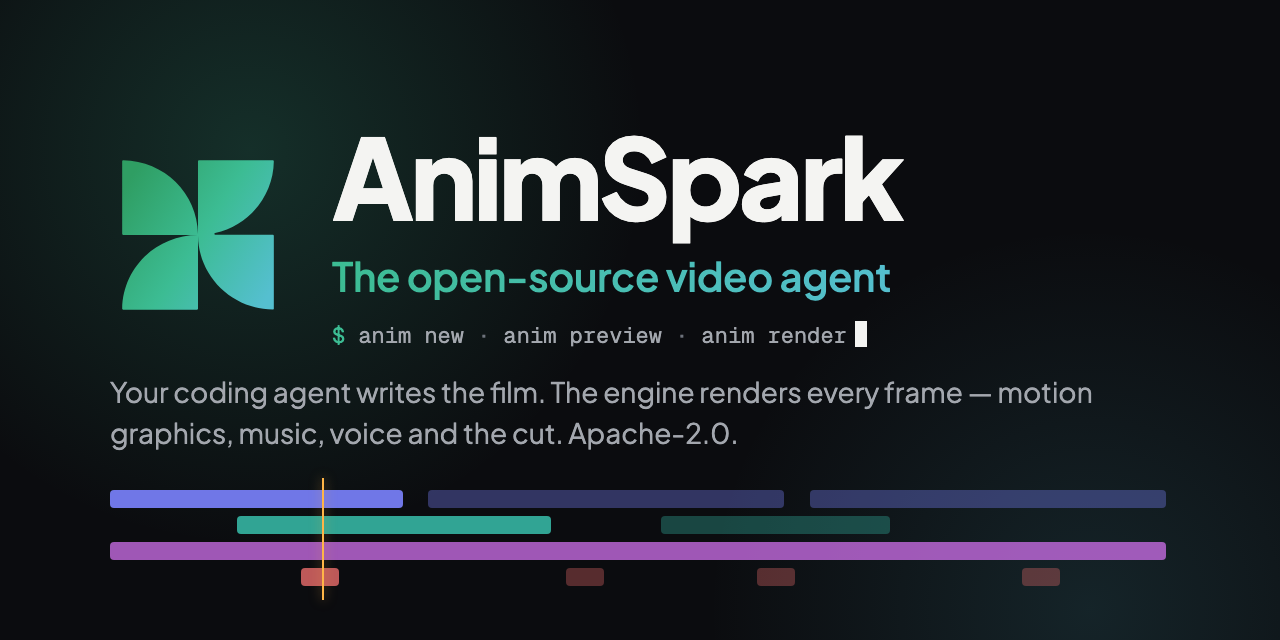
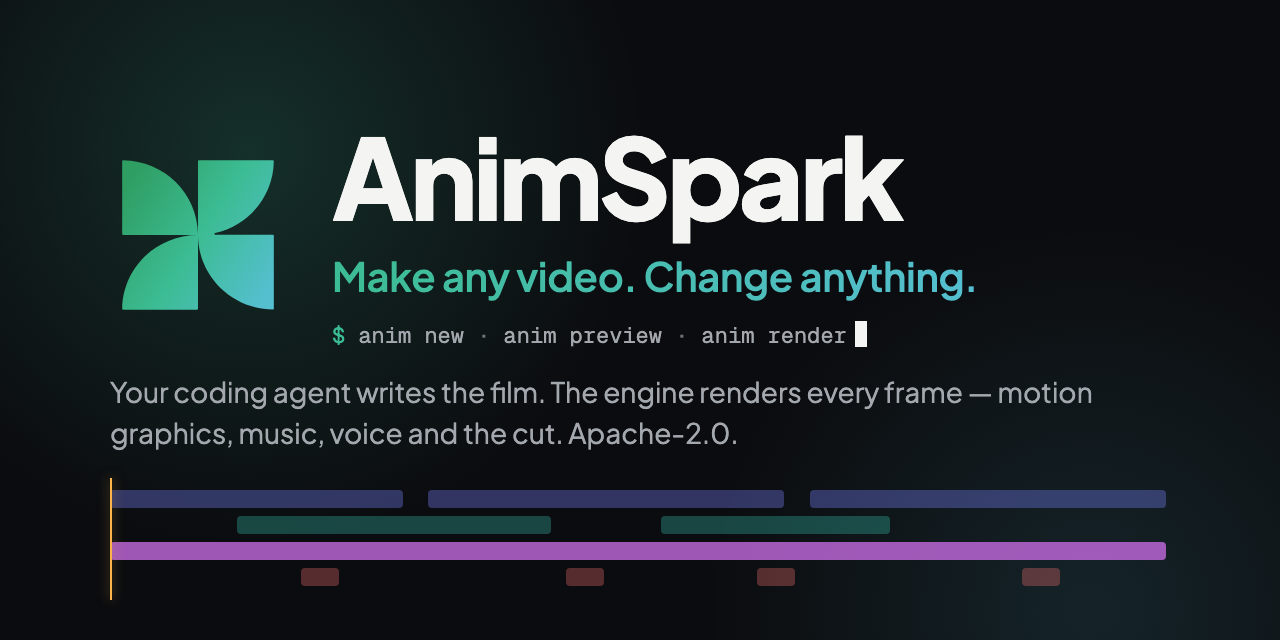
README and brand images: Make any video. Change anything.
Staging: 1e77ce221aeee18ffebed8f988579e85277418bd

Changed region(s): [[0.25, 0.4062, 0.75, 0.4688], [0.0625, 0.75, 0.4375, 0.8438], [0.2188, 0.875, 0.2812, 0.9375]]

diff --git a/README.md b/README.md
@@ -1,5 +1,5 @@
 <p align="center">
-  <a href="https://animspark.com"><img src="docs/assets/hero.webp" alt="AnimSpark — the open-source video agent" width="100%"></a>
+  <a href="https://animspark.com"><img src="docs/assets/hero.webp" alt="AnimSpark — make any video, change anything" width="100%"></a>
 </p>
 
 <p align="center">
@@ -10,8 +10,9 @@
 </p>
 
 <p align="center">
-  <b>The open-source video agent.</b> A film format, a frame-exact renderer, a music engine and the<br>
-  skills that let Claude Code, Codex or Cursor make motion graphics, product videos and explainers — on your machine.
+  <b>Make any video. Change anything.</b> This is the open-source engine behind AnimSpark: a film format,<br>
+  a frame-exact renderer, a music engine and the skills that let Claude Code, Codex or Cursor make motion graphics,<br>
+  product videos and explainers — on your machine.
 </p>
 
 <p align="center">
